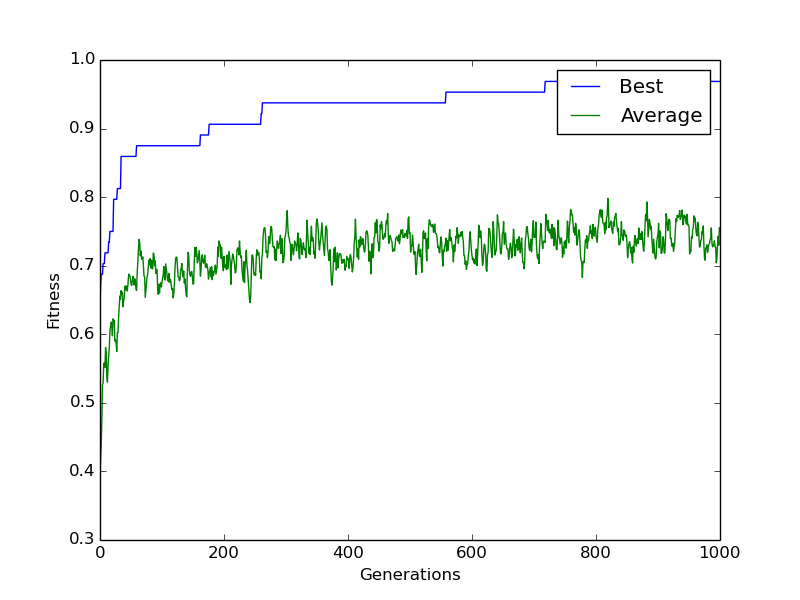
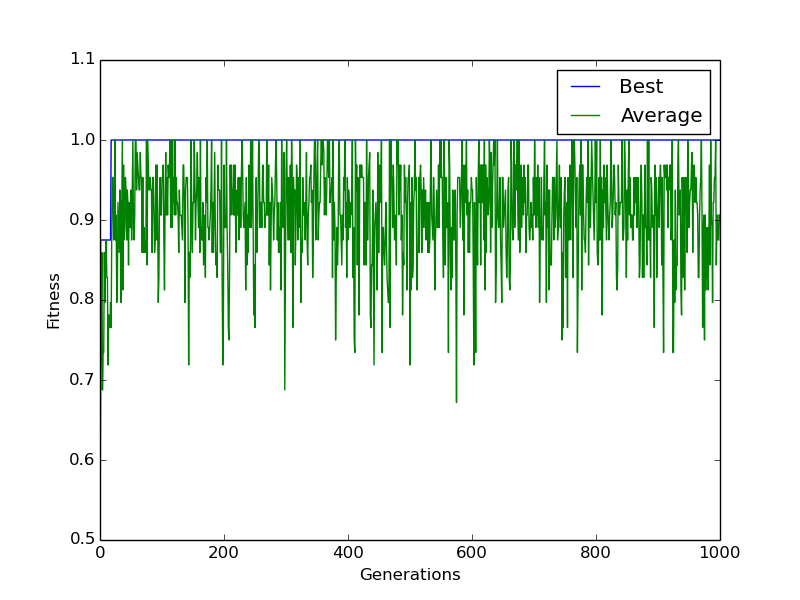
some minor changes

diff --git a/OCEV/main.py b/OCEV/main.py
@@ -24,7 +24,7 @@ def newPop(matriz,pop,d):
   return popula
 
 # FUNCAO MAIN
-def main():
+if  __name__ =='__main__':
   initPop = rp.randomPopulation(var.cod,var.pop_size,var.d_size,var.bounds)
   objective = initPop
   offspring = []
@@ -106,7 +106,7 @@ def main():
             newGen = aux
 
     newPopu = newPop(newGen,var.pop_size,var.d_size)
-    # print (elected)
+
     if var.elitism:
       randIndex = random.randint(0,(var.d_size-1))
       newPopu[randIndex] = elected
@@ -149,6 +149,3 @@ def main():
   plt.savefig("diversity.png")
 
   print(best)
-
-if  __name__ =='__main__':
-  main()

diff --git a/OCEV/mutation.py b/OCEV/mutation.py
@@ -40,10 +40,6 @@ def deltaMutation(valorMat):
 def gaussianMutation(valorMat):
   x1 = random.random()
   x2 = random.random()
-  # if x1 == 0:
-  #   x1 = 1
-  # if x2 == 0:
-  #   x2 = 1
   y1 = mt.sqrt(-2 * mt.log(x1)) * mt.cos(2* mt.pi * x2)
   final = valorMat + y1 * 0.1
   valorMat = final

diff --git a/OCEV/variaveis.py b/OCEV/variaveis.py
@@ -4,7 +4,7 @@ import math as mt
 generations = 1000
 k = 5
 pop_size = 70
-d_size = 64
+d_size = 8
 bounds = [-50,50]
 
 elitism = True
